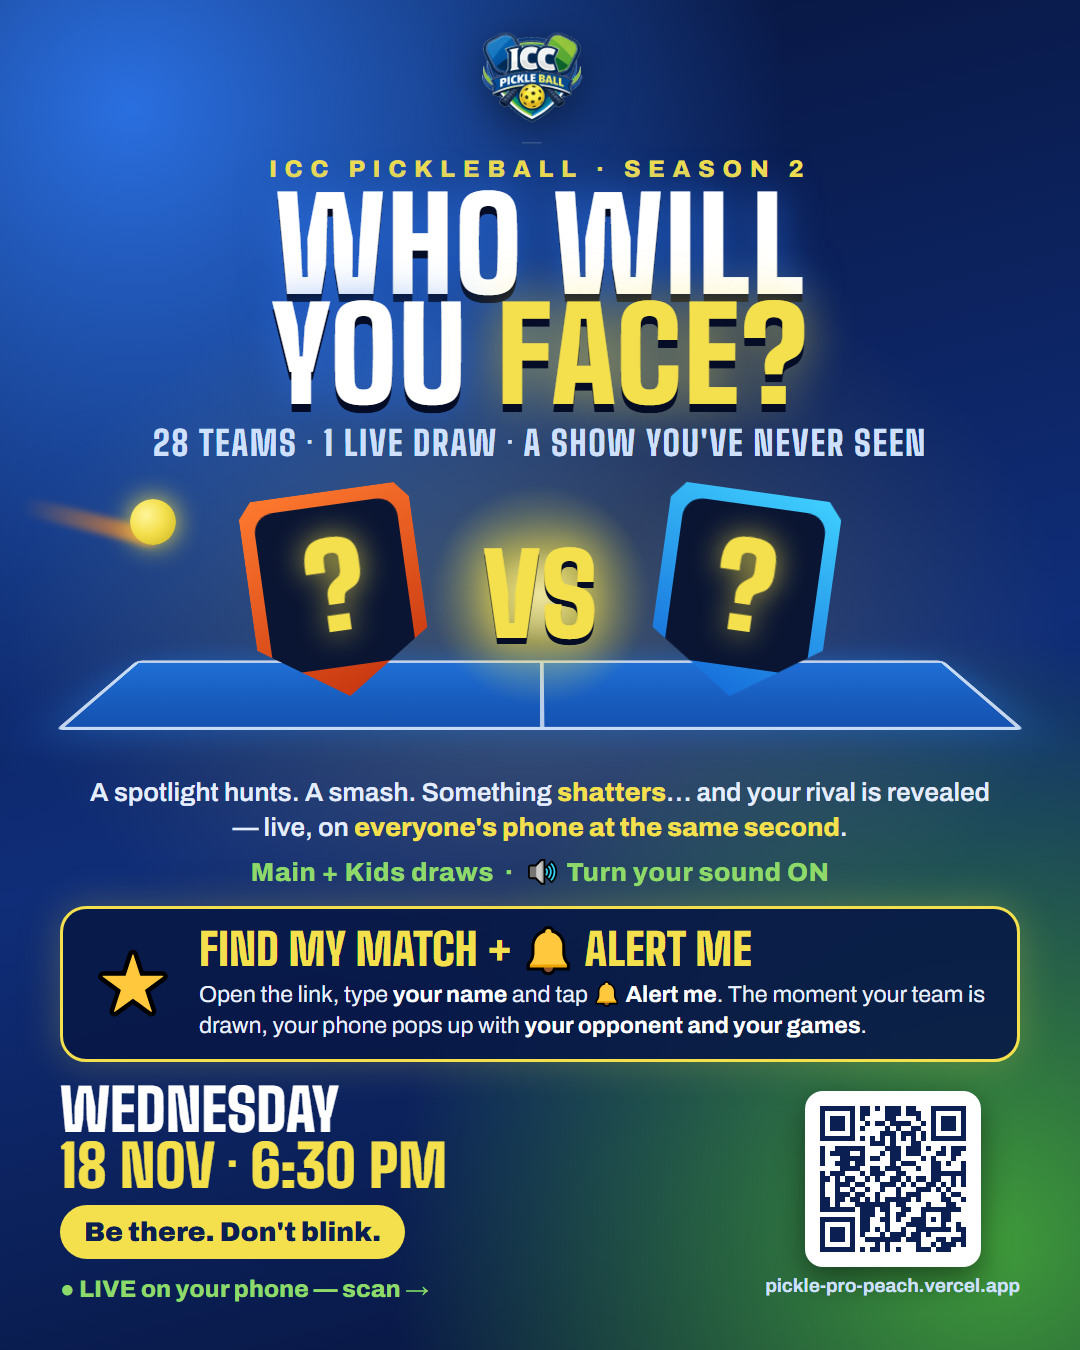
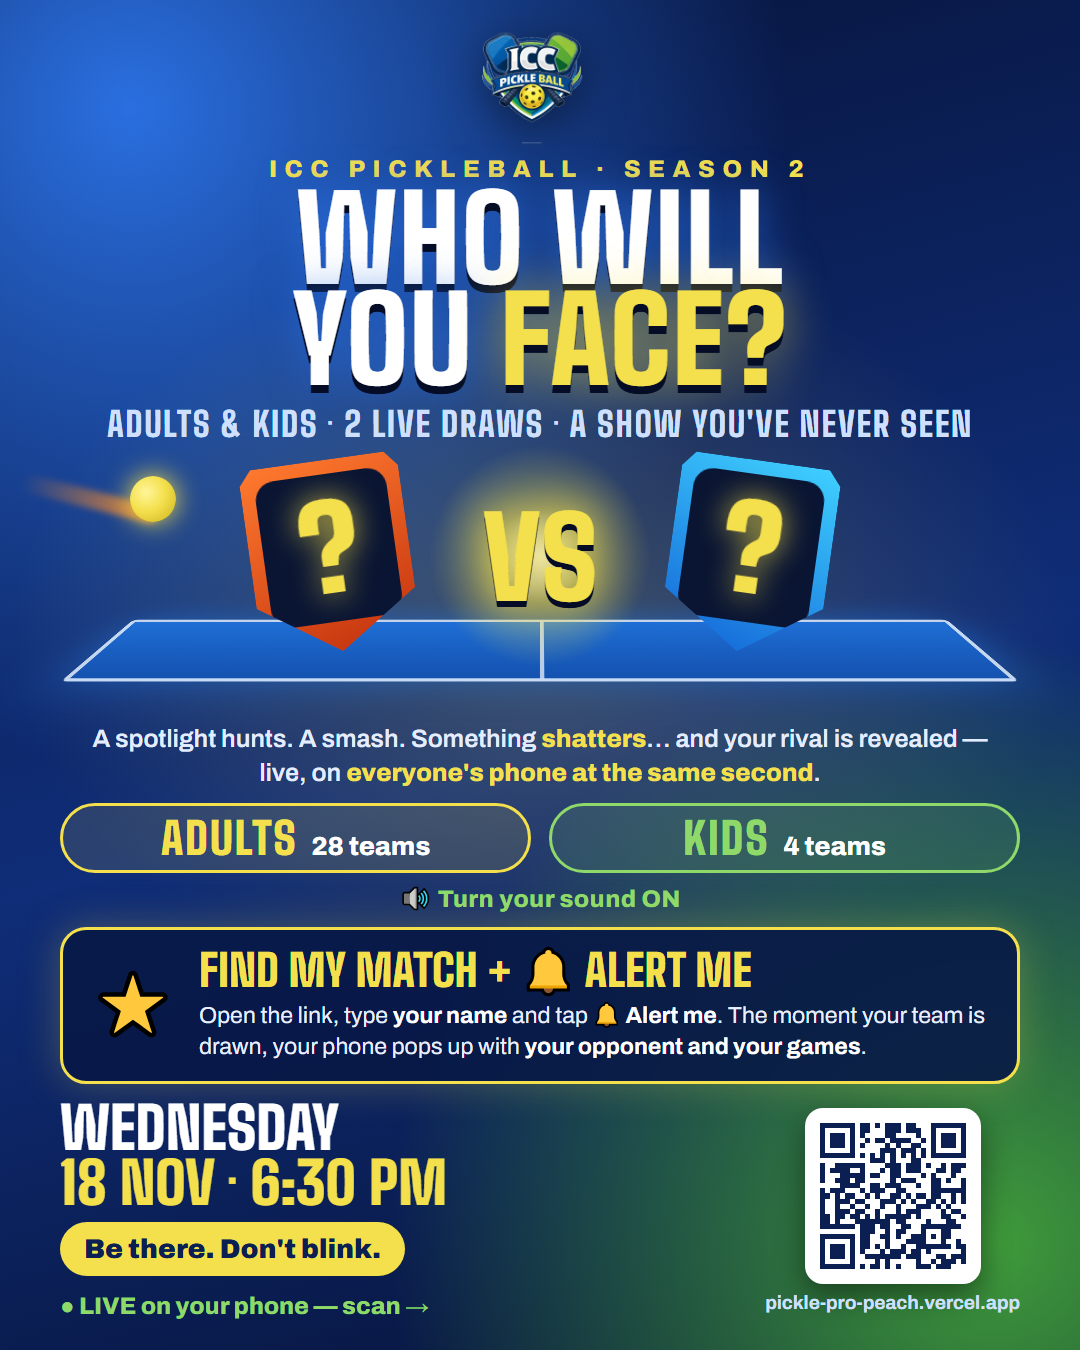
Say Adults instead of Main; Kids equal on the poster
- Switch labels: Adults matches / Kids matches (auction: Adults draw).
- Default adults draw name "Adults Match Draw"; loading the ICC Season 2
  teams renames default-named draws to "ICC Season 2 · Adults/Kids Match Draw".
- Poster + WhatsApp text: Adults & Kids, 2 live draws, equal badges.

diff --git a/marketing/match-draw-poster.html b/marketing/match-draw-poster.html
@@ -14,33 +14,41 @@
   .wrap > * { flex-shrink: 0; }
   .logo { width: 116px; filter: drop-shadow(0 10px 24px rgb(0 0 0 / .5)); }
   .kicker { margin-top: 10px; letter-spacing: .32em; font-weight: 800; color: #f4e04d; font-size: 24px; }
-  h1 { font-family: 'Big Shoulders', Impact, sans-serif; font-weight: 900; font-size: 128px; line-height: .86; margin-top: 8px; text-transform: uppercase; letter-spacing: .01em; text-shadow: 0 8px 0 #050d26, 0 0 40px rgb(42 111 224 / .8); }
+  h1 { font-family: 'Big Shoulders', Impact, sans-serif; font-weight: 900; font-size: 118px; line-height: .86; margin-top: 6px; text-transform: uppercase; letter-spacing: .01em; text-shadow: 0 8px 0 #050d26, 0 0 40px rgb(42 111 224 / .8); }
   h1 em { font-style: normal; color: #f4e04d; text-shadow: 0 8px 0 #050d26, 0 0 50px rgb(244 224 77 / .7); }
   .tag { font-family: 'Big Shoulders', Impact, sans-serif; font-weight: 800; font-size: 34px; margin-top: 12px; color: #cfe0ff; letter-spacing: .05em; text-transform: uppercase; }
 
   /* The hint: two mystery crests about to collide, a smashed ball streaking in. */
-  .arena { position: relative; width: 960px; height: 290px; margin-top: 10px; }
-  .court { position: absolute; left: 50%; bottom: 6px; width: 880px; height: 130px; transform: translateX(-50%) perspective(600px) rotateX(58deg); border: 5px solid rgb(255 255 255 / .75); background: linear-gradient(#1f6fd6, #1452b0); border-radius: 6px; box-shadow: 0 0 60px rgb(31 111 214 / .6); }
+  .arena { position: relative; width: 960px; height: 262px; margin-top: 6px; }
+  .court { position: absolute; left: 50%; bottom: 6px; width: 880px; height: 116px; transform: translateX(-50%) perspective(600px) rotateX(58deg); border: 5px solid rgb(255 255 255 / .75); background: linear-gradient(#1f6fd6, #1452b0); border-radius: 6px; box-shadow: 0 0 60px rgb(31 111 214 / .6); }
   .court::before { content: ''; position: absolute; left: 50%; top: 0; bottom: 0; border-left: 4px solid rgb(255 255 255 / .7); }
-  .crest { position: absolute; top: 18px; width: 172px; height: 206px; display: grid; place-items: center; clip-path: polygon(50% 100%, 100% 72%, 100% 8%, 92% 0, 8% 0, 0 8%, 0 72%); }
+  .crest { position: absolute; top: 10px; width: 160px; height: 192px; display: grid; place-items: center; clip-path: polygon(50% 100%, 100% 72%, 100% 8%, 92% 0, 8% 0, 0 8%, 0 72%); }
   .crest i { position: absolute; inset: 14px 14px 30px; border-radius: 20px; background: #0a1533; display: grid; place-items: center; font-family: 'Big Shoulders', Impact, sans-serif; font-weight: 900; font-style: normal; font-size: 116px; color: #f4e04d; text-shadow: 0 0 30px rgb(244 224 77 / .8); }
   .crest.a { left: 190px; background: linear-gradient(160deg, #ff7a2f, #c2300d); transform: rotate(-8deg); box-shadow: 0 0 60px #ff7a2f; filter: drop-shadow(0 0 30px rgb(255 122 47 / .9)); }
   .crest.b { right: 190px; background: linear-gradient(200deg, #3fd0ff, #1263d6); transform: rotate(8deg); filter: drop-shadow(0 0 30px rgb(63 208 255 / .9)); }
-  .vs { position: absolute; left: 50%; top: 66px; transform: translateX(-50%); font-family: 'Big Shoulders', Impact, sans-serif; font-weight: 900; font-size: 112px; line-height: 1; color: #f4e04d; text-shadow: 0 6px 0 #050d26, 0 0 40px #f4e04d; }
-  .spark { position: absolute; left: 50%; top: 122px; width: 260px; height: 260px; transform: translate(-50%, -50%); background: radial-gradient(circle, rgb(255 255 255 / .9), rgb(244 224 77 / .4) 25%, transparent 60%); filter: blur(2px); }
+  .vs { position: absolute; left: 50%; top: 52px; transform: translateX(-50%); font-family: 'Big Shoulders', Impact, sans-serif; font-weight: 900; font-size: 112px; line-height: 1; color: #f4e04d; text-shadow: 0 6px 0 #050d26, 0 0 40px #f4e04d; }
+  .spark { position: absolute; left: 50%; top: 106px; width: 260px; height: 260px; transform: translate(-50%, -50%); background: radial-gradient(circle, rgb(255 255 255 / .9), rgb(244 224 77 / .4) 25%, transparent 60%); filter: blur(2px); }
   .ball { position: absolute; left: 70px; top: 26px; width: 46px; height: 46px; border-radius: 50%; background: radial-gradient(circle at 35% 35%, #fff59a, #f4e04d 45%, #c9b31c); box-shadow: 0 0 26px #f4e04d; }
   .trail { position: absolute; left: -40px; top: 40px; width: 140px; height: 18px; border-radius: 9px; background: linear-gradient(90deg, transparent, rgb(255 140 40 / .9)); transform: rotate(14deg); filter: blur(3px); }
 
-  .tease { margin-top: 12px; font-size: 26px; line-height: 1.35; color: #e4ecff; font-weight: 600; max-width: 900px; }
+  .tease { margin-top: 10px; font-size: 25px; line-height: 1.35; color: #e4ecff; font-weight: 600; max-width: 900px; }
   .tease b { color: #f4e04d; font-weight: 800; }
-  .tease2 { margin-top: 8px; font-size: 26px; font-weight: 800; color: #8fd96b; letter-spacing: .02em; }
-  .find { margin-top: 18px; width: 100%; display: grid; grid-template-columns: auto 1fr; gap: 22px; align-items: center; text-align: left; background: rgb(8 24 70 / .9); border: 3px solid #f4e04d; border-radius: 26px; padding: 18px 26px; box-shadow: 0 0 40px rgb(244 224 77 / .25); }
+  .draws { margin-top: 14px; display: grid; grid-template-columns: 1fr 1fr; gap: 18px; width: 100%; }
+  .dr { display: flex; align-items: baseline; justify-content: center; gap: 14px; padding: 10px 18px; border-radius: 999px; border: 3px solid; }
+  .dr b { font-family: 'Big Shoulders', Impact, sans-serif; font-weight: 900; font-size: 44px; line-height: 1; letter-spacing: .04em; }
+  .dr span { font-size: 26px; font-weight: 800; }
+  .dr.adults { border-color: #f4e04d; background: rgb(244 224 77 / .12); }
+  .dr.adults b { color: #f4e04d; }
+  .dr.kids { border-color: #8fd96b; background: rgb(143 217 107 / .12); }
+  .dr.kids b { color: #8fd96b; }
+  .tease2 { margin-top: 8px; font-size: 24px; font-weight: 800; color: #8fd96b; letter-spacing: .02em; }
+  .find { margin-top: 14px; width: 100%; display: grid; grid-template-columns: auto 1fr; gap: 22px; align-items: center; text-align: left; background: rgb(8 24 70 / .9); border: 3px solid #f4e04d; border-radius: 26px; padding: 18px 26px; box-shadow: 0 0 40px rgb(244 224 77 / .25); }
   .find .star { font-size: 64px; line-height: 1; }
   .find h2 { font-family: 'Big Shoulders', Impact, sans-serif; font-weight: 900; font-size: 44px; line-height: 1; text-transform: uppercase; color: #f4e04d; }
   .find p { margin-top: 8px; font-size: 23px; line-height: 1.35; color: #e8efff; }
   .find p b { color: #fff; }
 
-  .bottom { margin-top: 20px; width: 100%; display: flex; align-items: center; justify-content: space-between; gap: 26px; }
+  .bottom { margin-top: 16px; width: 100%; display: flex; align-items: center; justify-content: space-between; gap: 26px; }
   .when { display: grid; gap: 12px; justify-items: start; text-align: left; }
   .date { font-family: 'Big Shoulders', Impact, sans-serif; font-weight: 900; font-size: 58px; line-height: .95; text-transform: uppercase; }
   .date span { color: #f4e04d; }
@@ -56,7 +64,7 @@
   <img class="logo" src="../client/public/logo.png" alt="ICC Pickleball">
   <p class="kicker">ICC PICKLEBALL · SEASON 2</p>
   <h1>Who will<br>you <em>face?</em></h1>
-  <p class="tag">28 teams · 1 live draw · a show you've never seen</p>
+  <p class="tag">Adults &amp; Kids · 2 live draws · a show you've never seen</p>
 
   <div class="arena" aria-hidden="true">
     <div class="court"></div>
@@ -68,7 +76,11 @@
   </div>
 
   <p class="tease">A spotlight hunts. A smash. Something <b>shatters</b>… and your rival is revealed — live, on <b>everyone's phone at the same second</b>.</p>
-  <p class="tease2">Main + Kids draws &nbsp;·&nbsp; 🔊 Turn your sound ON</p>
+  <div class="draws">
+    <p class="dr adults"><b>ADULTS</b><span>28 teams</span></p>
+    <p class="dr kids"><b>KIDS</b><span>4 teams</span></p>
+  </div>
+  <p class="tease2">🔊 Turn your sound ON</p>
 
   <div class="find">
     <div class="star">⭐</div>

diff --git a/client/src/cup/CupAdmin.jsx b/client/src/cup/CupAdmin.jsx
@@ -247,6 +247,13 @@ function TeamsDesk({ state, run, busy }) {
     await cupApi('/teams', { method: 'PUT', body: { teams: rows.map(({ name, players, color, logo, logoData }) => ({ name, players, color, logo: logoData ? null : logo })) } });
     const logos = Object.fromEntries(rows.map((r, i) => [`t${i + 1}`, r.logoData]).filter(([, v]) => v));
     if (Object.keys(logos).length) await cupApi('/logos', { method: 'PUT', body: { logos } });
+    // The organisers' list loaded: give the draw its proper name (Adults / Kids), unless the host
+    // already typed a custom one.
+    const kids = state.event === 'kids';
+    const seasonName = `ICC Season 2 · ${kids ? 'Kids' : 'Adults'} Match Draw`;
+    if (note?.file?.startsWith(SEASON2.season) && /^(icc season 2 · )?((adults|main|kids) )?match draw$/i.test(String(state.name).trim()) && state.name !== seasonName) {
+      await cupApi('/settings', { method: 'PATCH', body: { name: seasonName } });
+    }
     setDraft(null);
   });
   return (

diff --git a/client/src/cup/CupLive.jsx b/client/src/cup/CupLive.jsx
@@ -14,10 +14,10 @@ import { MyMatchAlert, followedTeam } from './MyMatch.jsx';
 import { Moments } from './Moments.jsx';
 
 const SWITCH = [
-  { key: 'main', label: 'Main', api: '/api/fixtures/state' },
+  { key: 'main', label: 'Adults', api: '/api/fixtures/state' },
   { key: 'kids', label: 'Kids', api: '/api/kids/fixtures/state' },
 ];
-// Main / Kids match draw, plus a way back to the team auction. Badges refresh once a minute.
+// Adults / Kids match draw (both equal parts of the tournament). Badges refresh once a minute.
 export function CupSwitch() {
   const ev = useEvent();
   const [phase, setPhase] = useState({});

diff --git a/client/src/cup/core.js b/client/src/cup/core.js
@@ -41,7 +41,7 @@ export const seedCountOf = teamCount => (formatOf(teamCount) === 'qf' ? 8 : 4);
 export function newCup({ event = 'main', name } = {}) {
   return {
     event,
-    name: clean(name) || (event === 'kids' ? 'Kids Match Draw' : 'Match Draw'),
+    name: clean(name) || (event === 'kids' ? 'Kids Match Draw' : 'Adults Match Draw'),
     status: 'SETUP', // SETUP -> DRAW -> KNOCKOUT (league / done are derived)
     aimMs: 3500,
     weapon: 'auto',

diff --git a/client/src/DrawSwitch.jsx b/client/src/DrawSwitch.jsx
@@ -2,7 +2,7 @@ import { useEffect, useState } from 'react';
 import { setEvent, urlFor, useEvent } from './event.js';
 
 const DRAWS = [
-  { key: 'main', label: 'Main draw', api: '/api/state' },
+  { key: 'main', label: 'Adults draw', api: '/api/state' },
   { key: 'kids', label: 'Kids draw', api: '/api/kids/state' },
 ];
 

diff --git a/HANDOVER.md b/HANDOVER.md
@@ -320,6 +320,7 @@ Main/Kids switch; Setup (name, spin length, categories/order, lists by paste or 
 | 28 | **Find my match before the draw + 🔔 Alert me pop-up** | Owner: "notification of find my match don't work". It had no alert and only appeared after the first match. |
 | 29 | Host **final-list check** against `season2.json` | 3 players were replaced after the owner's rehearsal; the live draw still had the old names. |
 | 30 | WhatsApp **teaser poster** (curiosity + hint, date, Find my match, QR) | Owner: "surprising… curious… exciting for participants, tell about find my match". |
+| 31 | Say **Adults** (not Main); Kids shown as an equal part everywhere | Owner: "don't hide kids as small… instead of main say adults". The code key stays `main`. |
 
 ### Team Auction (session 1)
 | Decision | Why |
@@ -554,6 +555,12 @@ npm run build         # client production build (client/dist)
 ## 15. Change log
 
 Newest first. Add an entry for every change.
+
+### 2026-11-17 (later) — "Adults" instead of "Main"; Kids equal everywhere
+- Owner: "don't hide kids as small, they are also part of the tournament; instead of main say adults".
+- Switches: **Adults matches | Kids matches** (match draw), **Adults draw | Kids draw** (auction). Default draw name for the adults event: **Adults Match Draw** (`core.js`). When the host loads the ICC Season 2 teams and saves, a default-named draw is renamed **ICC Season 2 · Adults Match Draw** / **ICC Season 2 · Kids Match Draw** (custom names are left alone).
+- Poster + WhatsApp text: "Adults & Kids · 2 live draws", two equal badges **ADULTS · 28 teams** and **KIDS · 4 teams**.
+- Internally the event key stays `main` (URLs, API, database) — only the words people see changed.
 
 ### 2026-11-17 — Final teams, music cut 0:11–0:24, Matches PDF, no match numbers/courts, alerts, reactions, HD, poster
 - **Teams** (`season2.json`, from the organisers' final adult list image; kids list image identical to the app): Dink Floyd B **Amit Gala** (was Jimit Badani), Zero Love B **Manik Midha** (was Jigar Badani), Pickle Ke Chhichhore D **Nupur Chaudhary** (was Nupur Ankur Choudhari). Host page: **final-list check** warns when a draw's saved teams differ from this list and says how to fix it.
